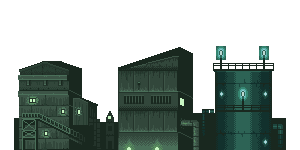
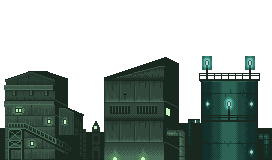
lader

Changed region(s): [[0.0, 0.2933, 1.0, 1.0], [0.5, 0.9867, 0.5588, 1.0]]

diff --git a/concept/javascript.js b/concept/javascript.js
@@ -414,22 +414,99 @@ class Dictionary{
 var horizontalDisplacement = 0
 var mouseDown = false
 
-document.getElementById("playfield").onmousedown = function(){
+document.getElementById("slider-image").onmousedown = function(){
     mouseDown = true
+    document.getElementById("slider").style.opacity = "1"
 }
 
 document.body.onmouseup = function(){
     mouseDown = false
+    document.getElementById("slider").style.opacity = ""
 }
 
 document.body.onmousemove = function(event){
-    if(mouseDown)
-    horizontalDisplacement += event.movementX * .1
+    if(mouseDown){
+        horizontalDisplacement = (event.clientX - document.getElementById("slider").getBoundingClientRect().x) / document.getElementById("slider").getBoundingClientRect().width * 100
+        horizontalDisplacement = Math.min(horizontalDisplacement, 100)
+        horizontalDisplacement = Math.max(horizontalDisplacement, 0)
+    }
 }
 
+var horizontalStageSize = 20
+var verticalStageSize = 6
+
 setInterval(function(){
-    document.getElementById("bg1").style.backgroundPositionX = horizontalDisplacement * 12 + "px"
-    document.getElementById("bg2").style.backgroundPositionX = horizontalDisplacement * 6 + "px"
-    document.getElementById("bg3").style.backgroundPositionX = horizontalDisplacement * 3 + "px"
-    document.getElementById("bg4").style.backgroundPositionX = horizontalDisplacement * 1 + "px"
+    document.getElementById("bg1").style.backgroundPositionX = -horizontalDisplacement * 4 + "px"
+    document.getElementById("bg2").style.backgroundPositionX = -horizontalDisplacement * 2 + "px"
+    document.getElementById("bg3").style.backgroundPositionX = -horizontalDisplacement * 1 + "px"
+    document.getElementById("bg4").style.backgroundPositionX = -horizontalDisplacement * .5 + "px"
+    document.getElementById("slider-image").style.left = horizontalDisplacement + "%"
+    document.getElementById("playfield-tiles").style.left = -16 - ((horizontalStageSize * 66 - 690) * horizontalDisplacement / 100) + "px"
 }, 1)
+
+var directions = ["right", "down", "left", "up"]
+
+class Tile{
+    constructor(x, y){
+        this.x = x
+        this.y = y
+
+        this.ground = false
+        this.ladder = false
+    }
+
+    adj(direction){
+        switch(direction){
+            case directions[0]: if(this.x < horizontalStageSize - 1) return tiles[(this.x + 1) * verticalStageSize + this.y]; break;
+            case directions[1]: if(this.y < verticalStageSize - 1) return tiles[this.x * verticalStageSize + (this.y + 1)]; break;
+            case directions[2]: if(this.x > 0) return tiles[(this.x - 1) * verticalStageSize + this.y]; break;
+            case directions[3]: if(this.y > 0) return tiles[this.x * verticalStageSize + (this.y - 1)]; break;
+        }
+        return undefined
+    }
+
+    finish(){
+        this.elem = document.createElement("DIV")
+        this.elem.className = "tile " + (this.ground ? "ground" : "") + " " + (this.ladder ? "ladder" : "")
+        this.elem.style.left = this.x * 65 + "px"
+        this.elem.style.top = this.y * 65 + "px"
+        document.getElementById("playfield-tiles").appendChild(this.elem)
+    }
+}
+
+var tiles = []
+for(var i = 0; i < horizontalStageSize; i++){
+    for(var e = 0; e < verticalStageSize; e++){
+        tiles.push(new Tile(i, e))
+    }
+}
+
+tiles.forEach(z => {
+    if(z.y == verticalStageSize - 1){
+        z.ground = true
+    }
+
+    var currTile = z
+    var accumulator = 0
+    while(Math.random() > (.85 - accumulator) && currTile != undefined){
+        currTile.ground = true
+        //currTile = currTile.adj(Math.random() > .5 ? directions[0] : directions[2])
+        currTile = currTile.adj(randomValue(directions))
+        accumulator = Math.min(.5, accumulator + .15)
+    }
+})
+
+tiles.forEach(z => {
+    if(z.y != 0){
+        if(z.ground && z.adj(directions[3]).ground && Math.random() > .2){
+            if(z.adj(directions[2]) == undefined || !z.adj(directions[2]).ladder){
+                z.ladder = true
+            } else if(Math.random() > .5){
+                z.adj(directions[2]).ladder = false
+                z.ladder = true
+            }
+        }
+    }
+})
+
+tiles.forEach(z => z.finish())

diff --git a/concept/style.css b/concept/style.css
@@ -1,8 +1,9 @@
 body{
-    padding: 0;
+    margin: 0;
     width: 100%;
     height: 100%;
     position: absolute;
+    background-color: #111;
 }
 
 #main{
@@ -14,12 +15,19 @@ body{
 
 #playfield{
     position: relative;
-    width: 700px;
-    height: 300px;
+    width: 640px;
+    height: 361px;
     background-color: black;
-    padding: 15px;
-    border: 15px solid transparent;
+    padding: 16px;
+    border: 16px solid transparent;
     border-image: url("border.png") 30 stretch;
+    overflow: hidden
+}
+
+#playfield-tiles{
+    z-index: 1;
+    position: relative;
+    top: -16px;
 }
 
 .playfield-background{
@@ -31,7 +39,6 @@ body{
     background-repeat: repeat-x;
     background-size: auto 100%;
     user-select: none;
-    cursor: pointer;
 }
 
 #bg1{
@@ -48,4 +55,43 @@ body{
 
 #bg4{
     background-image:url("bg4.png");
+}
+
+#slider{
+    position: relative;
+    top: -24px;
+    width: calc(100% - 96px);
+    padding-right: 64px;
+    margin: auto;
+    opacity: 0;
+    transition: opacity .1s
+}
+
+#slider:hover{
+    opacity: 1
+}
+
+#slider-image{
+    position: relative;
+    cursor: pointer;
+}
+
+.tile{
+    position: absolute;
+    width: 64px;
+    height: 64px;
+    border: 2px solid rgba(30, 30, 30, .2);
+    background-repeat: no-repeat;
+}
+
+.tile:hover{
+    border: 2px solid #999
+}
+
+.ground{
+    background-image: url("floor.png")
+}
+
+.ladder{
+    background-image: url("floor.png"), url("ladder.png")
 }

diff --git a/concept/index.html b/concept/index.html
@@ -13,10 +13,14 @@
 
     <div id="main">
         <div id="playfield">
+            <div id="playfield-tiles"></div>
             <div id="bg4" class="playfield-background"></div>
             <div id="bg3" class="playfield-background"></div>
             <div id="bg2" class="playfield-background"></div>
             <div id="bg1" class="playfield-background"></div>
+        </div>
+        <div id="slider">
+            <img id="slider-image" src="slider.png" draggable="false">
         </div>
     </div>
     <script src="javascript.js"></script>
